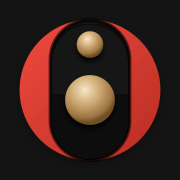
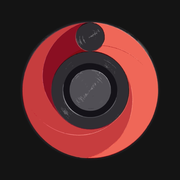
Novo logótipo (anel/espiral) e correção da badge de notificação
- Substitui o logo por novo símbolo fornecido pelo utilizador: isola o anel
  vermelho/coral com esfera escura, remove fundo/textura/moldura de mockup
  e reaplica margem de segurança (78%) para ícones adaptativos
- Atualiza logo.png, icon-192/512.png, apple-touch-icon.png (opaco, iOS) e
  icon-512-maskable.png (opaco, Android) a partir da nova arte
- Troca o favicon de icon.svg (vetor, agora obsoleto) para favicon.png,
  já que a nova arte é rasterizada, não vetorial limpa
- Corrige badge-96.png: tinha ficado um anel/círculo de uma correção anterior
  de legibilidade a 24px, volta a ser a gota de água pretendida, mantendo a
  legibilidade a tamanho real de notificação

diff --git a/index.html b/index.html
@@ -6,7 +6,11 @@
 <meta name="color-scheme" content="light" />
 <title>IronHealth</title>
 <link rel="manifest" href="manifest.json" />
-<link rel="icon" href="icon.svg" type="image/svg+xml" />
+<!-- Favicon em PNG, não SVG: o logo atual vem de arte rasterizada (traçado
+     pintado/textura), não de formas vetoriais limpas — não há vantagem em
+     forçar um SVG aqui, e ficheiro PNG pequeno evita reprocessar milhares de
+     paths a cada carregamento da aba. -->
+<link rel="icon" href="favicon.png" type="image/png" />
 <!-- iOS nao suporta SVG em apple-touch-icon de forma fiavel (versoes mais
      antigas ignoram-no e usam uma captura de ecra da pagina em vez de
      icone) — tem de ser PNG opaco, 180x180. -->
